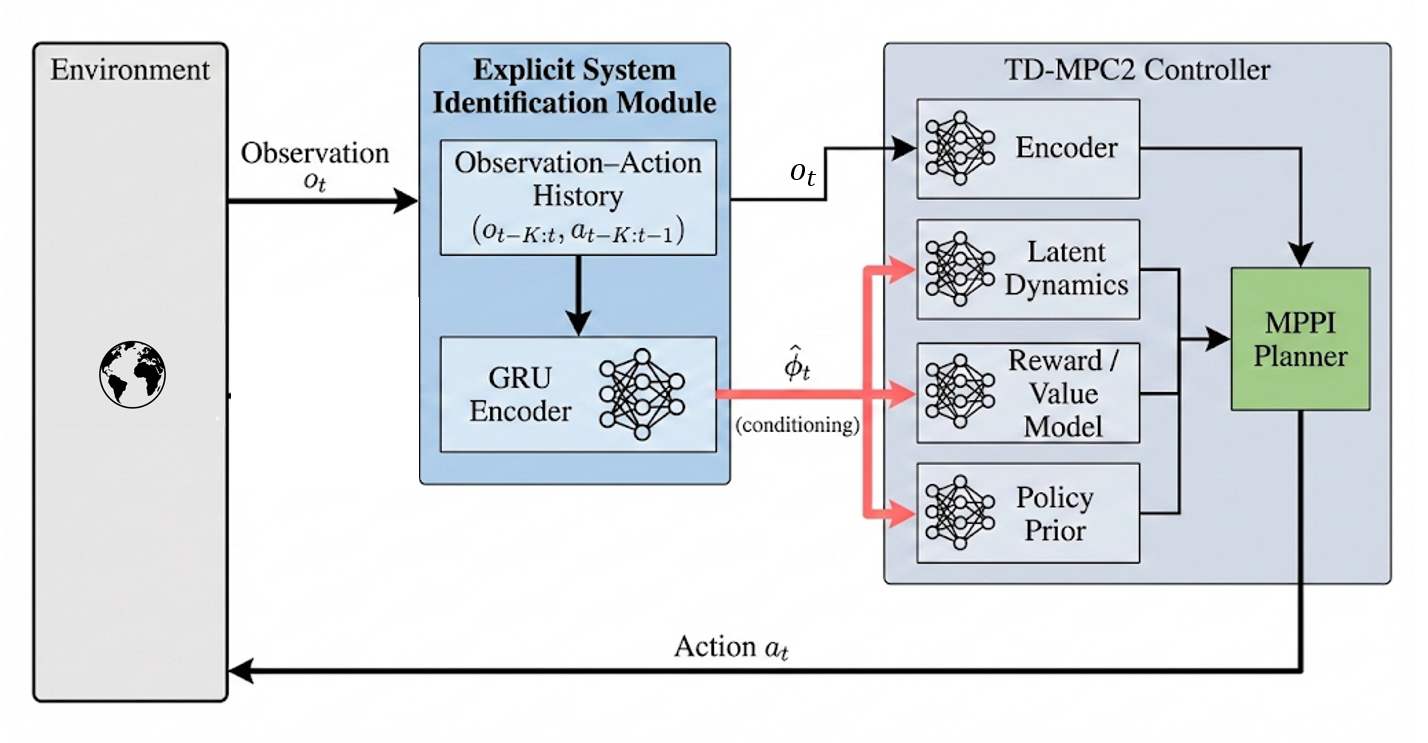
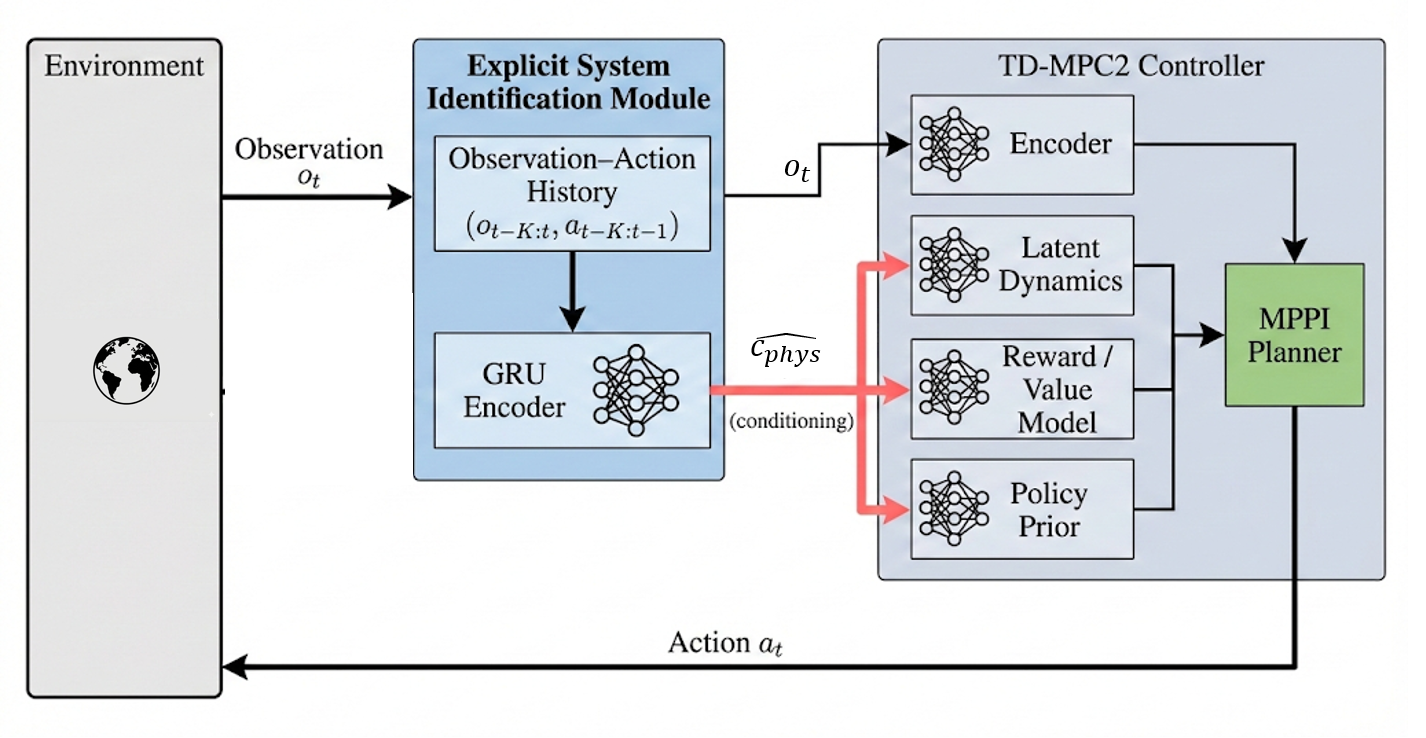
ちょいbrash up

Changed region(s): [[0.0, 0.0312, 0.9874, 0.9661], [0.0617, 0.4363, 0.1234, 0.561], [0.4628, 0.8415, 0.5554, 0.9038]]

diff --git a/chapters/chapter4.tex b/chapters/chapter4.tex
@@ -1,5 +1,5 @@
 \chapter{提案手法}
-\section{不確実環境における制御問題の再定式化}
+\section{不確実環境における制御問題の定式化}
 \label{sec:problem_reformulation}
 
 本節では，
@@ -13,11 +13,8 @@
 \label{subsec:uncertainty_setting}
 
 本研究では，
-ロボットの質量，摩擦係数，関節特性といった
-\textbf{物理パラメータの不確実性}を主な対象とする．
-これらのパラメータは，
-環境や個体ごとに異なる一方で，
-一つのエピソード内では時間的にほぼ一定であると仮定できる．
+ロボットの質量，関節特性といった
+物理パラメータが未知な環境を環境不確実性として定義する．
 
 このような物理パラメータは，
 単一時刻の観測から直接推定することは困難であり，
@@ -52,15 +49,6 @@ TD-MPC2 では，
 モデル予測制御におけるロールアウトを通じて累積し，
 計画の信頼性を低下させる要因となる．
 
-既存の TD-MPC2 では，
-このような不確実性に対して，
-暗黙的にロバストな潜在表現を学習することで対処していると解釈できる．
-しかし，
-この暗黙的な適応は，
-どの物理的要因が性能劣化の原因であるかを明示的に示すものではなく，
-制御性能の低下を事後的に分析・診断することが難しい．
-
-
 \subsection{本研究の基本方針：不確実性の明示的同定}
 \label{subsec:design_policy}
 
@@ -73,21 +61,11 @@ TD-MPC2 では，
 その推定結果を制御および計画に反映させることで，
 将来予測の整合性を向上させることを目的とする．
 
-ここで重要なのは，
-推定対象を状態の一部として扱うのではなく，
-制御に影響を与える\textbf{条件変数}として扱う点である．
-物理パラメータは，
-短時間で変化する状態とは異なり，
-エピソード内でほぼ一定であるため，
-履歴情報から推定し，
-計画時に条件付けることが適している．
-
 本研究の設計目標は，
 単に平均的な性能を向上させることではなく，
 不確実環境下における
 (i) 計画の信頼性，
-(ii) 推定結果の解釈性，
-(iii) 性能劣化要因の診断可能性
+(ii) 推定結果の解釈性
 を同時に向上させることである．
 この方針に基づき，
 次節以降では，
@@ -131,7 +109,6 @@ TD-MPC2 では，
 潜在空間上の世界モデルを用いたロールアウトと
 モデル予測制御により行動が決定される．
 
-これに対し，
 提案手法では，
 制御とは独立に，
 過去の観測および行動の履歴を入力として
@@ -149,41 +126,29 @@ TD-MPC2 が本来持つ
 \subsection{推定モジュールと制御モジュールの結合設計}
 \label{subsec:module_coupling}
 
-本研究では，
-物理パラメータ推定モジュールと制御モジュールを
-疎に結合した構成を採用する．
-具体的には，
-推定モジュールは制御器の外部に配置され，
-推定結果は制御器に対して入力条件として与えられるのみであり，
-制御器内部の潜在状態推定や価値学習とは直接的に干渉しない．
-
-このような設計を採用した理由は二つある．
-第一に，
-物理パラメータは，
-瞬時に変化する状態とは異なり，
-エピソード内でほぼ一定であるため，
-状態遷移モデルの一部として内部状態に統合する必要がない点である．
-第二に，
-推定器と制御器を強く結合した場合，
-勾配の干渉や学習の不安定化が生じやすく，
-既存の TD-MPC2 が持つ学習特性を損なう可能性がある．
-
 提案手法では，
-推定された物理パラメータを
-制御に影響を与える条件変数として扱い，
-世界モデルおよび計画アルゴリズムに明示的に与える．
-これにより，
-同一の潜在状態および行動であっても，
-異なる物理パラメータ条件下では
-異なる将来予測および計画結果が得られる．
+物理パラメータ推定モジュールと制御モジュールを独立させた疎結合な構成を採用した．
+推定された物理パラメータ \(\hat{\mathbf{c}}_{\mathrm{phys}}\) は，
+制御器内部の潜在状態表現には統合せず，
+各予測モジュールに対する「条件付け変数（conditioning variable）」として扱われる．
+具体的には，
+エンコーダを除く世界モデルの構成要素（Dynamics, Reward, Value）および行動事前分布（Policy Prior）の入力として \(\hat{\mathbf{c}}_{\mathrm{phys}}\) を明示的に注入する設計としている．
 
-このように，
-推定モジュールと制御モジュールを役割分担に基づいて分離することで，
-提案手法は
-(i) 物理パラメータ推定の解釈性，
-(ii) 制御性能の安定性，
-(iii) 設計および実装の単純性
-を同時に満たす構成となっている．
+この設計の核心は，
+推定プロセスを制御器の外部に配置することで，
+物理パラメータ推定モジュールの学習が制御器側の表現獲得や価値学習を不安定化させることを防ぐ点にある．
+学習時には推定値 \(\hat{\mathbf{c}}_{\mathrm{phys}}\) を介した勾配の逆伝播を遮断（detach）する構造をとることで，
+既存の TD-MPC2 が備える優れた学習特性を損なうことなく，
+環境特性に応じた適応能力のみを付加することが可能となる．
+これにより，
+エージェントは同一の潜在状態および行動に対しても，
+同定された物理パラメータに応じて将来予測や計画結果を動的に変化させることができる．
+
+このように推定と制御の役割を概念的に分離した構成は，
+(i) 物理パラメータ同定の明示的な解釈性，
+(ii) 不確実環境下における適応プロセスの安定性，
+(iii) システム全体のモジュール性と実装の単純性
+を同時に担保するものである．
 
 
 \section{明示的物理パラメータ推定器}
@@ -192,9 +157,6 @@ TD-MPC2 が本来持つ
 本節では，
 相互作用履歴から環境の物理パラメータを推定するために導入した，
 明示的物理パラメータ推定器について述べる．
-本研究では，
-物理パラメータを時間的にほぼ不変な環境特性として捉え，
-状態推定とは異なる推定問題として定式化する．
 
 
 \subsection{相互作用履歴に基づく推定問題の定式化}
@@ -216,22 +178,11 @@ TD-MPC2 が本来持つ
 を推定する問題を考える．
 ここで，
 \(\mathbf{c}_{\mathrm{phys}}\) は，
-質量や摩擦係数など，
+質量や関節特性など，
 制御性能に大きな影響を与えるが，
 単一時刻の観測からは直接得られない量を表す．
 
-重要なのは，
-\(\mathbf{c}_{\mathrm{phys}}\) が
-短時間で変化する状態変数ではなく，
-エピソード内ではほぼ一定であるという点である．
-このため，
-本研究では，
-\(\mathbf{c}_{\mathrm{phys}}\) を
-状態空間に含めて逐次推定するのではなく，
-履歴全体から推定される条件変数として扱う．
-
-この定式化により，
-推定問題は次の写像として表現できる．
+そして推定問題は次の写像として表現できる．
 
 \begin{align}
 \hat{\mathbf{c}}_{\mathrm{phys},t}
@@ -309,14 +260,6 @@ GRU により得られた隠れ状態 \(\mathbf{h}_t\) を入力として，
 学習時に用いたパラメータ分布と
 推定値のスケールを整合させるためである．
 
-本研究では，
-正規化された物理パラメータを，
-潜在状態に直接結合するのではなく，
-遷移モデルや報酬モデルの条件として与える．
-この設計により，
-潜在状態表現そのものを変更することなく，
-物理特性の違いを将来予測に反映できる．
-
 このような条件付けは，
 物理パラメータが状態とは異なる時間スケールで変化するという仮定と整合的であり，
 推定誤差が潜在状態推定に直接影響することを防ぐ効果も持つ．
@@ -350,12 +293,12 @@ f(\mathbf{s}_t, \mathbf{a}_t, \hat{\mathbf{c}}_{\mathrm{phys},t}).
 モデル予測制御における行動系列の最適化が行われる．
 
 
-\subsection{推定パラメータ条件下での MPPI 計画}
+\subsection{推定パラメータ条件下での軌道計画}
 \label{subsec:conditional_mppi}
 
 TD-MPC2 では，
 モデル予測制御の最適化手法として
-Model Predictive Path Integral (MPPI) が用いられている．
+Model Predictive Path Integral (MPPI) \cite{williams2015modelpredictivepathintegral} が用いられている．
 提案手法では，
 この MPPI による計画過程においても，
 推定された物理パラメータを条件として用いる．
@@ -423,10 +366,10 @@ MPPI によるサンプリングベースの最適化は，
 \(\hat{\mathbf{c}}_{\mathrm{phys},t}\) は
 推定器による予測値を表す．
 物理パラメータは，
-エピソード内でほぼ一定であるため，
-履歴の任意の時刻において同一の教師信号を用いることができる．
+単一エピソード内では一定とし，
+履歴の任意の時刻において同一の教師信号を用いた．
 この性質により，
-推定器は比較的安定した教師あり学習が可能である．
+推定器は安定した教師あり学習が可能である．
 
 なお，
 本研究では，
@@ -457,16 +400,6 @@ MPPI によるサンプリングベースの最適化は，
 を用いた多段階予測を行い，
 報酬モデルおよび価値関数を
 時間的差分誤差に基づいて更新する．
-
-ここで重要なのは，
-物理パラメータは
-制御器に対して外部から与えられる条件変数として扱われ，
-制御器内部の潜在状態推定や価値学習の構造自体は変更しない点である．
-この設計により，
-TD-MPC2 が持つ
-高い学習安定性およびサンプル効率を維持したまま，
-環境ごとの差異を反映した制御が可能となる．
-
 
 \subsection{勾配分離による学習安定化}
 \label{subsec:gradient_decoupling}

diff --git a/chapters/chapter1.tex b/chapters/chapter1.tex
@@ -17,7 +17,7 @@ RLは，環境モデルを事前に厳密に設計することなく方策を獲
 
 一方で，実環境における試行錯誤には，
 安全性やコストの観点から大きな制約が存在する.
-そのため，限られたデータから効率的に学習可能な手法が求められる.
+そのため，限られたデータから効率的に学習可能な工夫が求められる.
 この文脈において，環境の将来挙動を内部モデルとして学習し，
 その予測に基づいて行動を計画する
 モデルベース強化学習（Model-Based Reinforcement Learning; MBRL）
@@ -33,15 +33,15 @@ RLは，環境モデルを事前に厳密に設計することなく方策を獲
 しかし，実環境への適用を考えた場合，
 既存の多くのMBRL手法は依然として重要な課題に直面している.
 MBRLは学習時に獲得された環境ダイナミクスに基づいて計画を行うため，
-物理パラメータが変動した場合，
+運用時にそのダイナミクスが異なる場合，
 その影響が次状態予測誤差として顕在化し，
-計画性能の劣化を引き起こす可能性がある.
+計画および制御性能の劣化を引き起こす可能性がある.
 
 この問題が顕在化する代表的な例の一つが，
 シミュレーション環境で学習した方策を実環境へ転移する際に生じる
 Sim2Real Gap（シミュレーションと実環境の乖離）である.
 シミュレーションと実環境の間には，
-質量や摩擦係数，接触特性などの物理パラメータに差異が存在するため，
+質量や摩擦係数，接触特性などの環境を決定する物理パラメータに差異が存在するため，
 転移後に次状態予測の誤差が増大し，
 計画の破綻や制御性能の低下を招くことがある.
 
@@ -57,8 +57,8 @@ MBRL手法の性能劣化を引き起こす要因となる.
 実環境内で生じるダイナミクス変動は，
 発生要因や時間的スケールは異なるものの，
 いずれも物理パラメータの変動によって
-学習時の世界モデルと実行時の環境ダイナミクスが乖離する点で共通している.
-固定的な世界モデルに基づく計画は，
+学習時のダイナミクスモデルと実行時の環境ダイナミクスが乖離する点で共通している.
+固定的なモデルに基づく計画は，
 この乖離に対して本質的に脆弱であり，
 結果として制御性能の低下を招きやすい.
 
@@ -67,20 +67,20 @@ MBRL手法の性能劣化を引き起こす要因となる.
 性能劣化を抑制可能なMBRL手法の構築が重要な課題である.
 本研究では，MBRLの最先端アルゴリズムであるTD-MPC2\cite{hansen2023td}を基盤とし，
 過去の挙動履歴から環境に固有な物理特性を推定し，
-その情報を世界モデルの予測に反映させることで，
+その情報をモデルの予測に反映させることで，
 環境ダイナミクスの変化に適応する
 モデルベース強化学習の枠組みを提案する.
 本手法では，環境特性の同定と，
 それに基づくダイナミクス予測とを概念的に分離して扱うことで，
-物理パラメータ変動下においても
+物理特性の変動下においても
 計画性能を維持することを目指す.
 
 本研究の主な貢献を以下に示す.
 
 \begin{itemize}
-  \item \textbf{物理パラメータ変動下における課題構造の整理}
+  \item \textbf{物理特性変動下における課題構造の整理}
 
-  物理パラメータの変動がモデルベース強化学習の計画性能に与える影響を整理し，
+  物理特性の変動がモデルベース強化学習の計画性能に与える影響を整理し，
   固定的な世界モデルに基づく手法の限界を明確化した.
 
   \item \textbf{環境特性同定に基づく適応的MBRL手法の提案}
@@ -88,10 +88,10 @@ MBRL手法の性能劣化を引き起こす要因となる.
   TD-MPC2を基盤とし，環境に固有な物理特性を明示的に同定し，
   その情報を世界モデルに反映させる適応的MBRL手法を提案した.
 
-  \item \textbf{物理パラメータ変動に対する有効性の検証}
+  \item \textbf{物理特性変動に対する有効性の検証}
 
-  Pendulum-SwingupおよびWalker-Walkなどの制御タスクを用いて，
-  物理パラメータ変動下における性能を評価し，
+  Pendulum-SwingupおよびWalker-Walkの制御タスクを用いて，
+  物理特性変動下における性能を評価し，
   提案手法が非適応型ベースラインに対して有効であることを示した.
 \end{itemize}
 

diff --git a/chapters/chapter3.tex b/chapters/chapter3.tex
@@ -91,7 +91,7 @@ MPC は次の最適化問題を解く：
 
 ここで，
 $\hat{r}_{t+k}$ および $\hat{q}(\mathbf{s}_{t+H})$ は，
-それぞれ学習された報酬モデルおよび価値関数によって予測される．
+それぞれ学習された報酬モデルおよび価値関数によって予測される報酬,行動価値である．
 潜在状態の推移は，
 初期状態 $\mathbf{s}_t$ から始めて，
 遷移モデル $f_{\mathrm{dyn}}$ を反復適用することで計算される：
@@ -184,7 +184,7 @@ POMDP 下において最適な行動を選択するためには，
 過去の相互作用の経緯から
 パラメータ $\theta$ を含む潜在的な環境特性を推定することが不可欠となる．
 
-\subsection{履歴情報に基づくコンテキスト抽出と GRU}
+\subsection{履歴情報に基づく環境特性抽出}
 \label{subsec:gru}
 
 時刻 $t$ における過去 $K$ ステップの観測および行動の系列を，
@@ -198,9 +198,9 @@ POMDP 下において最適な行動を選択するためには，
 この履歴 $\mathcal{H}_t$ には，
 「特定の行動 $\mathbf{a}$ に対してどのような遷移が起きたか」
 という情報が蓄積されており，
-未知の環境特性を同定するための十分な統計量が含まれると考えられる．
+未知の環境特性を同定するための情報情報が含まれると考えられる．
 
-履歴から動的なコンテキストを抽出する写像を
+履歴から環境特性を抽出する写像を
 \(
 \mathbf{c}_t = g(\mathcal{H}_t)
 \)
@@ -215,10 +215,4 @@ POMDP 下において最適な行動を選択するためには，
 長期的依存関係の学習に長け，
 かつ計算効率に優れる
 Gated Recurrent Unit（GRU）を採用して
-履歴表現 $\mathbf{c}_t$ を抽出する\cite{dey2017gate}．
-GRU は更新ゲートおよびリセットゲートによって
-情報の保持と忘却を動的に制御する構造を持つ．
-この機構により，
-過去の相互作用の中に潜むダイナミクスの徴候を効率的に集約し，
-未知の物理パラメータに適応するための
-状態表現を獲得することが可能となる．
+環境特性 $\mathbf{c}_t$ を抽出する\cite{dey2017gate}．

diff --git a/tables/hyperparameters.tex b/tables/hyperparameters.tex
@@ -3,7 +3,7 @@
 
 \begin{table}[htbp]
   \centering
-  \caption{Hyperparameter settings. We directly apply settings in~\cite{hansen2023td} for the shared hyperparameters without further tuning. We share the same setting across all tasks demonstrated before.}
+  \caption{TDMPC2のハイパーパラメータ設定: \cite{hansen2023td} の設定に準拠}
   \label{tab:hyperparameters}
   \footnotesize
   \setlength{\tabcolsep}{6pt}
